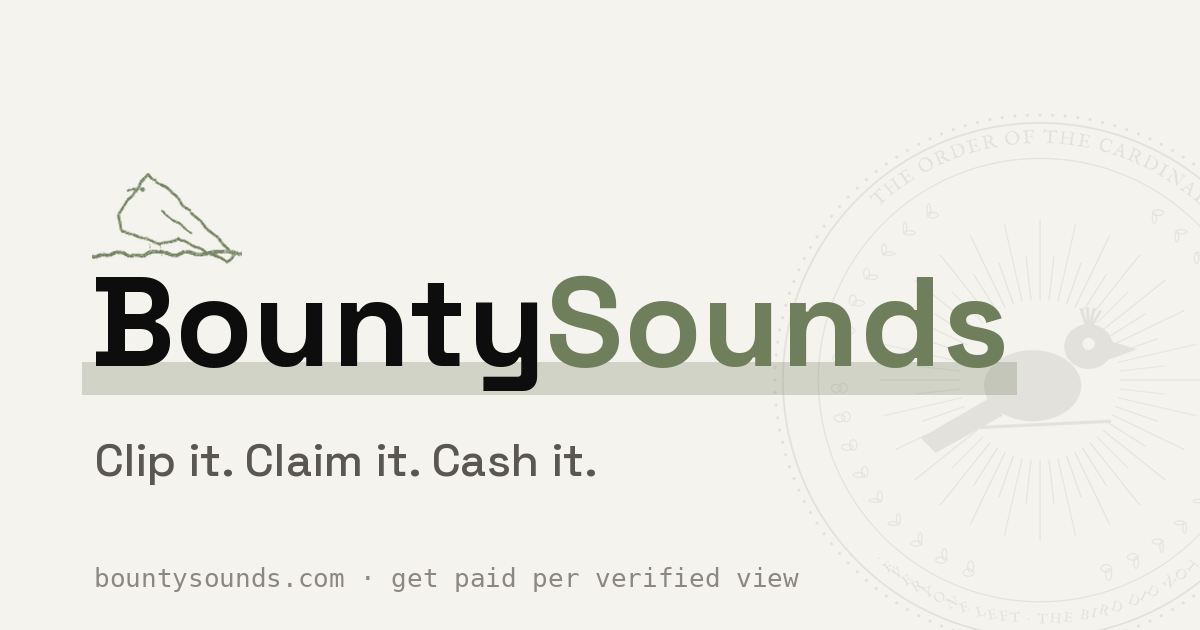
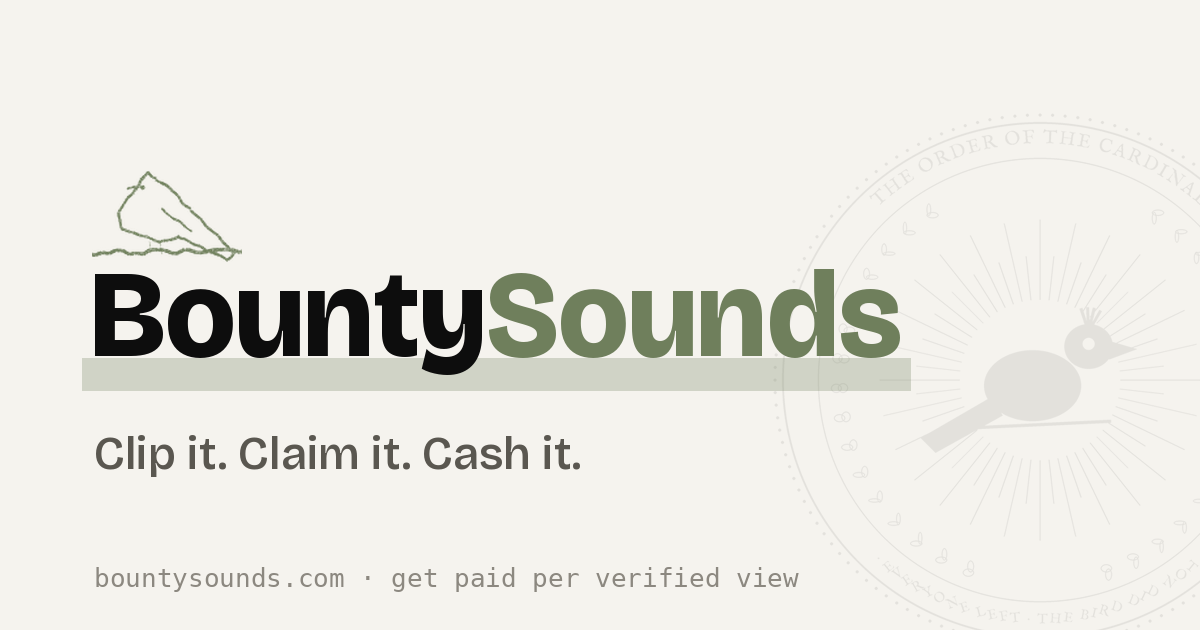
Full font overhaul: Bricolage display, Space Grotesk body, Space Mono labels
Every stack variable changes: display goes Bricolage Grotesque
(ink-trap grotesque with real character), body drops DM Sans for
Space Grotesk, mono/terminal go Space Mono, script notes go Caveat
handwriting; Permanent Marker keeps the spray moments. Inter and
DM Sans leave the font payload. OG card regenerated in Bricolage
ExtraBold to match the header.

Claude-Session: https://claude.ai/code/session_01MTyooHaEUWt1CxeTTb8ugm

Changed region(s): [[0.0617, 0.2714, 0.8633, 0.6333], [0.0617, 0.6937, 0.4933, 0.754]]

diff --git a/src/styles.css b/src/styles.css
@@ -50,12 +50,12 @@
   --color-ring: var(--gold);
   --color-ring-offset-background: var(--wall);
 
-  --font-display: "Space Grotesk", ui-sans-serif, system-ui, sans-serif;
-  --font-body: "DM Sans", ui-sans-serif, system-ui, sans-serif;
+  --font-display: "Bricolage Grotesque", "Space Grotesk", ui-sans-serif, system-ui, sans-serif;
+  --font-body: "Space Grotesk", ui-sans-serif, system-ui, sans-serif;
   --font-marker: "Permanent Marker", "Space Grotesk", ui-sans-serif, sans-serif;
-  --font-mono: ui-monospace, "SF Mono", Menlo, monospace;
-  --font-script: "DM Sans", ui-sans-serif, system-ui, sans-serif;
-  --font-terminal: ui-monospace, "SF Mono", Menlo, monospace;
+  --font-mono: "Space Mono", ui-monospace, "SF Mono", Menlo, monospace;
+  --font-script: "Caveat", "Space Grotesk", ui-sans-serif, system-ui, sans-serif;
+  --font-terminal: "Space Mono", ui-monospace, "SF Mono", Menlo, monospace;
 
   --color-bs-paper: #f5f3ee;
   --color-bs-paper-soft: #faf9f5;

diff --git a/src/routes/__root.tsx b/src/routes/__root.tsx
@@ -102,7 +102,7 @@ export const Route = createRootRouteWithContext<{ queryClient: QueryClient }>()(
       { rel: "preconnect", href: "https://fonts.gstatic.com", crossOrigin: "anonymous" },
       {
         rel: "stylesheet",
-        href: "https://fonts.googleapis.com/css2?family=Space+Grotesk:wght@400;500;600;700&family=DM+Sans:ital,wght@0,400;0,500;0,700;1,400&family=Permanent+Marker&family=Inter:ital,wght@0,400;0,500;0,600;0,700;1,400&display=swap",
+        href: "https://fonts.googleapis.com/css2?family=Bricolage+Grotesque:opsz,wght@12..96,400..800&family=Space+Grotesk:ital,wght@0,400;0,500;0,600;0,700;1,400&family=Space+Mono:wght@400;700&family=Caveat:wght@500;600&family=Permanent+Marker&display=swap",
       },
       { rel: "stylesheet", href: appCss },
       { rel: "icon", href: "/favicon.ico", type: "image/x-icon" },
